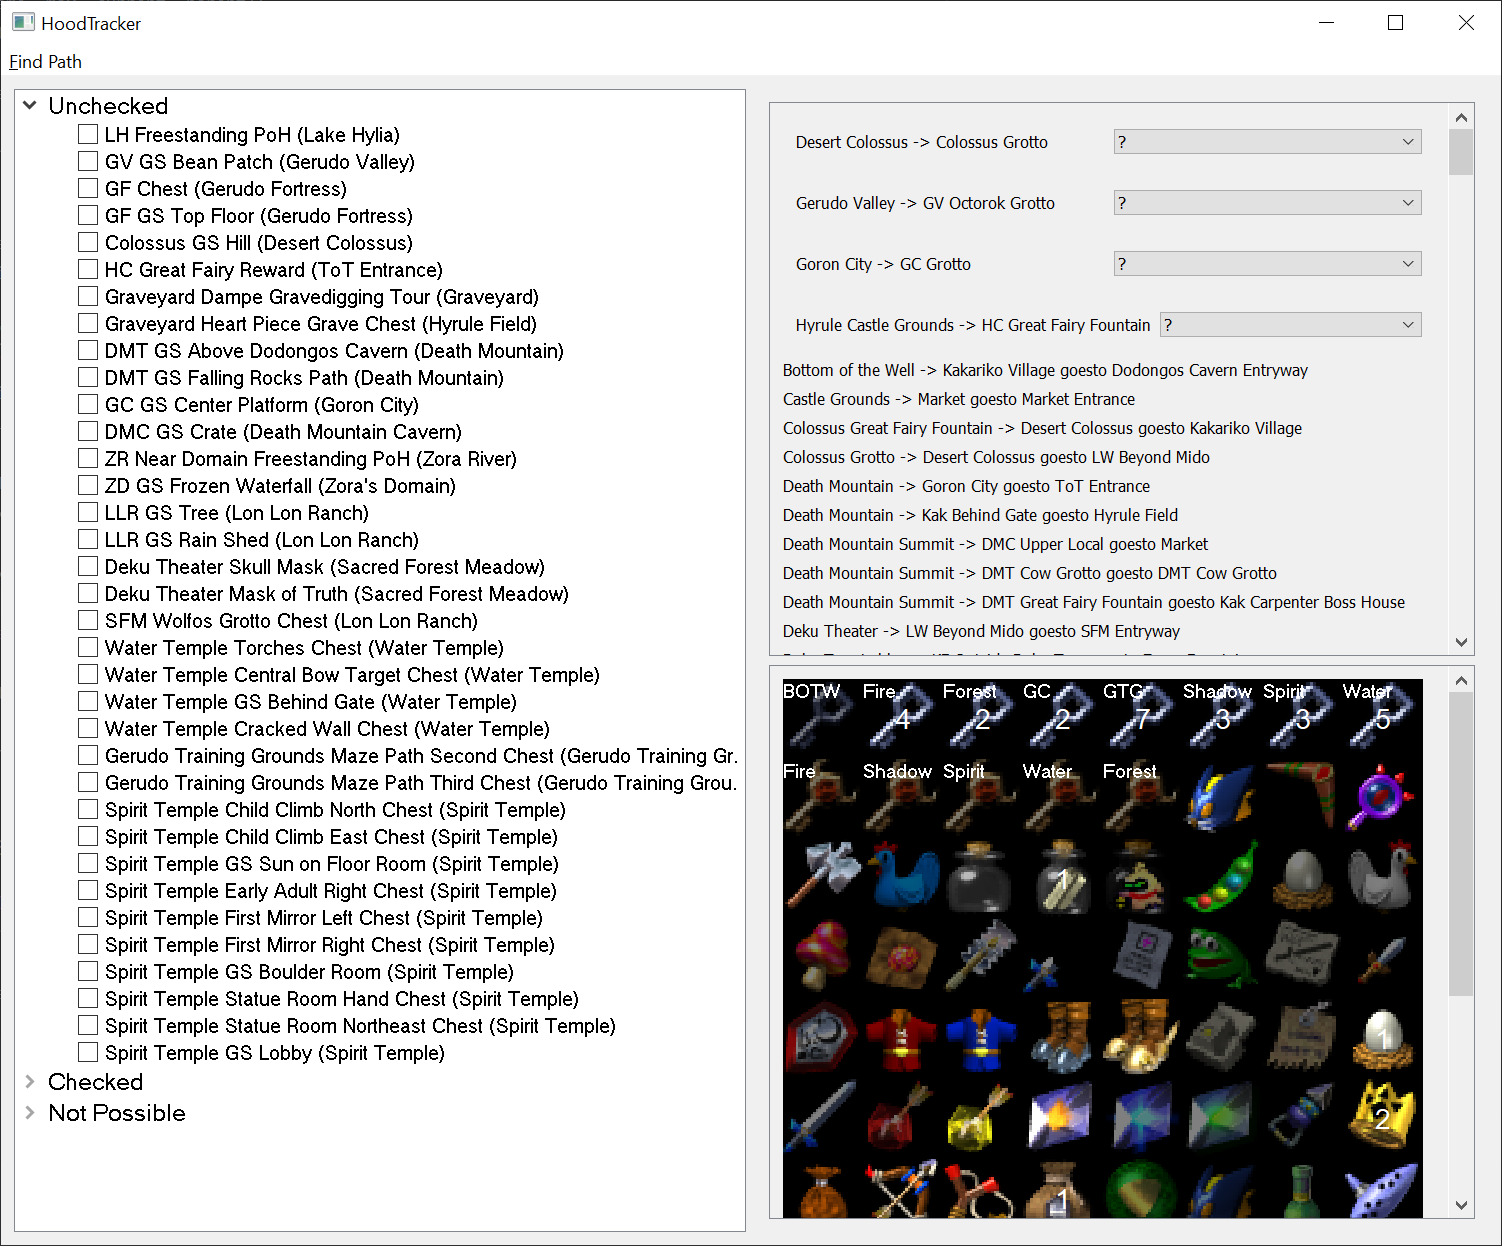
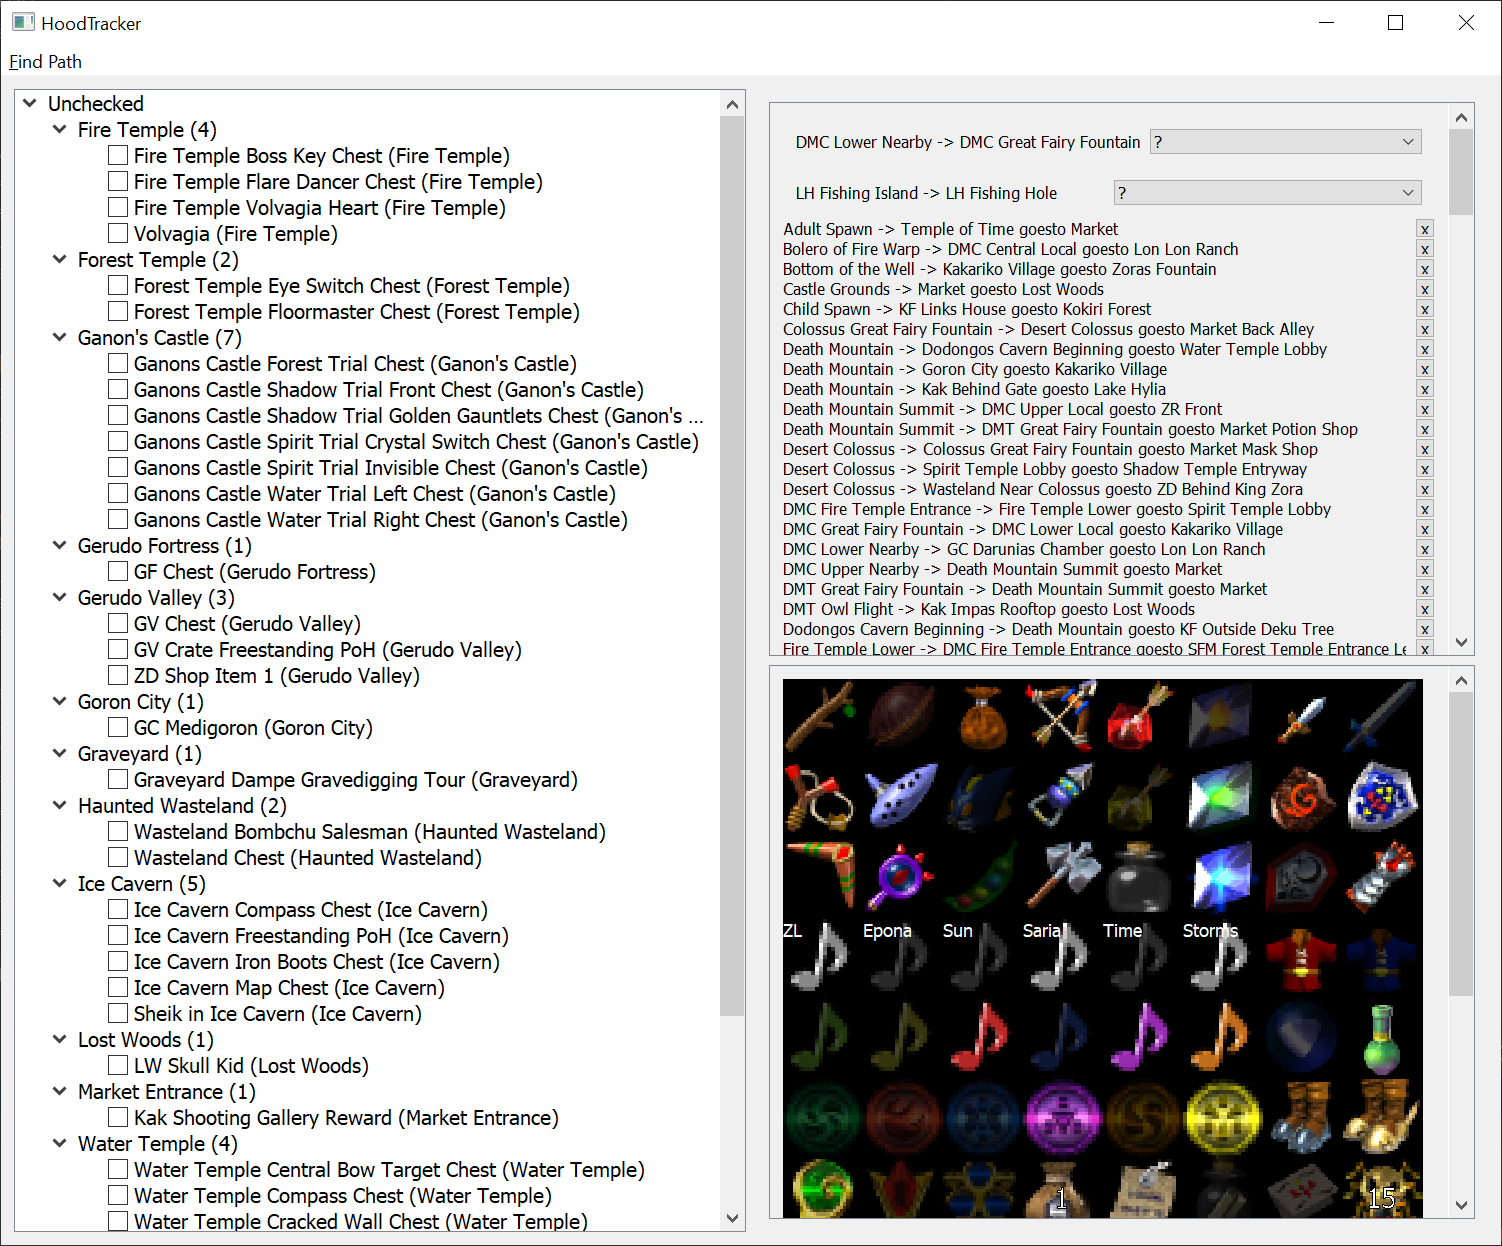
Arrange the inventory area better.

Changed region(s): [[0.0306, 0.061, 0.9494, 1.0], [0.9188, 0.122, 0.98, 0.2745]]

diff --git a/InventoryManager.py b/InventoryManager.py
@@ -3,13 +3,9 @@ import ItemPool
 import GuiUtils
 from CommonUtils import *
 from ImageInvButton import ImageInvButton
+from itertools import chain
 
 total_equipment = ItemPool.item_groups['ProgressItem'] + ItemPool.item_groups['Song'] + ItemPool.item_groups['DungeonReward'] + [
-    'Bombchu Drop',
-    'Zeldas Letter',
-    'Weird Egg',
-    'Rutos Letter',
-    'Gerudo Membership Card',
     'Deku Stick Capacity',
     'Deku Shield',
     'Hylian Shield',
@@ -28,7 +24,9 @@ gui_ignore_items = [
     'Eyedrops',
     'Ice Arrows',
     'Bombchus (5)',
+    'Bombchus (10)',
     'Bombchus (20)',
+    'Bombchu Drop',
     'Bottle with Red Potion',
     'Bottle with Green Potion',
     'Bottle with Blue Potion',
@@ -40,17 +38,114 @@ gui_ignore_items = [
     'Double Defense',
     'Triforce Piece',
     'Giants Knife',
+    'Magic Bean Pack',
+    'Pocket Cucco',
+    'Sell Big Poe',
+]
+
+gui_positions = [
+    'Deku Stick Capacity',
+    'Deku Nut',
+    'Bomb Bag',
+    'Bow',
+    'Fire Arrows',
+    'Dins Fire',
+    'Kokiri Sword',
+    'Biggoron Sword',
+
+    'Slingshot',
+    'Ocarina',
+    'Bombchus',
+    'Progressive Hookshot',
+    'Light Arrows',
+    'Farores Wind',
+    'Deku Shield',
+    'Hylian Shield',
+
+    'Boomerang',
+    'Lens of Truth',
+    'Magic Bean',
+    'Megaton Hammer',
+    'Bottle',
+    'Nayrus Love',
+    'Mirror Shield',
+    'Progressive Strength Upgrade',
+
+    'Zeldas Lullaby',
+    'Eponas Song',
+    'Suns Song',
+    'Sarias Song',
+    'Song of Time',
+    'Song of Storms',
+    'Goron Tunic',
+    'Zora Tunic',
+
+    'Minuet of Forest',
+    'Prelude of Light',
+    'Bolero of Fire',
+    'Serenade of Water',
+    'Nocturne of Shadow',
+    'Requiem of Spirit',
+    'Progressive Scale',
+    'Magic Meter',
+
+    'Forest Medallion',
+    'Fire Medallion',
+    'Water Medallion',
+    'Shadow Medallion',
+    'Spirit Medallion',
+    'Light Medallion',
+    'Iron Boots',
+    'Hover Boots',
+
+    'Kokiri Emerald',
+    'Goron Ruby',
+    'Zora Sapphire',
+    'Progressive Wallet',
+    'Gerudo Membership Card',
+    'Rutos Letter',
+    'Zeldas Letter',
+    'Gold Skulltula Token',
+
+    'Small Key (Forest Temple)',
+    'Small Key (Fire Temple)',
+    'Small Key (Water Temple)',
+    'Small Key (Shadow Temple)',
+    'Small Key (Spirit Temple)',
+    'Small Key (Gerudo Training Grounds)',
+    'Small Key (Bottom of the Well)',
+    'Small Key (Gerudo Fortress)',
+
+    'Boss Key (Forest Temple)',
+    'Boss Key (Fire Temple)',
+    'Boss Key (Water Temple)',
+    'Boss Key (Shadow Temple)',
+    'Boss Key (Spirit Temple)',
+    'Boss Key (Ganons Castle)',
+    'Small Key (Ganons Castle)',
+    'Weird Egg',
+
+    'Pocket Egg',
+    'Cojiro',
+    'Odd Mushroom',
+    'Odd Potion',
+    'Poachers Saw',
+    'Broken Sword',
+    'Prescription',
+    'Eyeball Frog',
+
+    'Claim Check',
+    'Stone of Agony',
+    'Bottle with Big Poe',
+    'Blue Fire',
 ]
 
 item_limits = Counter()
-for name, item in ItemPool.vanillaSK.items():
+for name, item in chain(ItemPool.vanillaSK.items(), ItemPool.vanillaBK.items()):
     if "MQ" in name:
         continue
     item_limits[item] += 1
-for name, item in ItemPool.vanillaBK.items():
-    if "MQ" in name:
-        continue
-    item_limits[item] += 1
+
 for item in total_equipment:
     item_limits[item] += 1
 item_limits['Gold Skulltula Token'] += 100
@@ -63,10 +158,21 @@ class InventoryEntry:
         self.max = max
         self.current = current
 
+def orderGuiWidgets(inputwidgets):
+    results = []
+    widgets = [x for x in inputwidgets if x.name not in gui_ignore_items]
+
+    for item_name in gui_positions:
+        match = expectOne([x for x in widgets if x.name == item_name])
+        widgets.remove(match)
+        results.append(match)
+    results.extend(widgets)
+    return results
+
 class InventoryManager:
     def __init__(self, inventory, parent):
         self.inv_widgets = [ImageInvButton(name=x.name, max=x.max, current=x.current, parent=self) for x in inventory]
-        self.shown_widgets = [x for x in self.inv_widgets if x.name not in gui_ignore_items]
+        self.shown_widgets = orderGuiWidgets(self.inv_widgets)
         self.widget = GuiUtils.GridScrollSettingsArea(widgets=self.shown_widgets)
         self.parent = parent
 
@@ -92,6 +198,8 @@ class InventoryManager:
                 results['Buy Hylian Shield'] += x.current
             elif x.name == 'Deku Nut':
                 results['Buy Deku Nut (5)'] += x.current
+            elif x.name == 'Bombchus':
+                results['Bombchu Drop'] += x.current
 
         # Hardcoded items
         if free_scarecrow:
